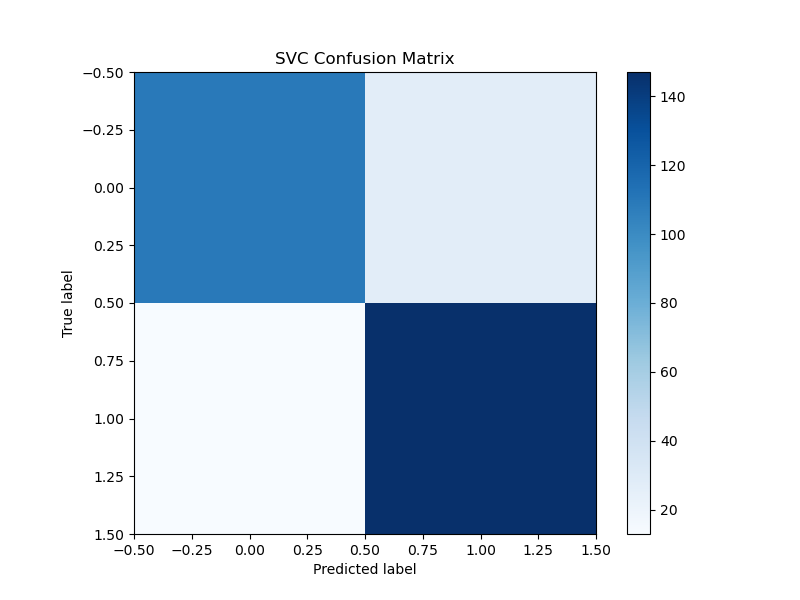
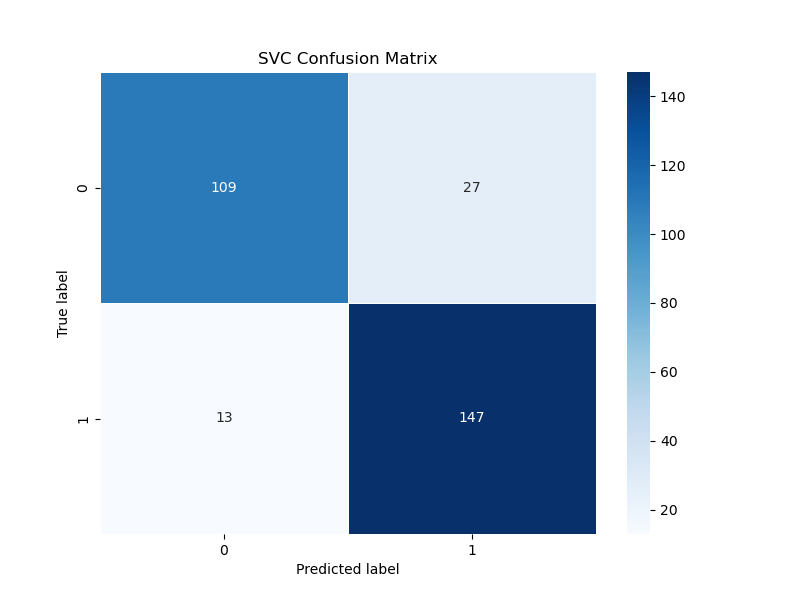
Adjusted

diff --git a/utils.py b/utils.py
@@ -3,10 +3,11 @@ import json
 import mlflow
 import numpy as np
 import pandas as pd
+import seaborn as sns
 import matplotlib.pyplot as plt
 from sklearn.metrics import accuracy_score, precision_score, recall_score, f1_score, roc_auc_score, confusion_matrix, \
     roc_curve, auc
-
+from mlflow.models import infer_signature
 
 def load_preprocessed_data():
     """
@@ -14,10 +15,9 @@ def load_preprocessed_data():
 
     :return: Tuple of features (X) and labels (y).
     """
-    X = pd.read_csv('Data/X_preprocessed.csv').values
+    X = pd.read_csv('Data/X_preprocessed.csv')
     y = pd.read_csv('Data/y_preprocessed.csv').values.ravel()
     return X, y
-
 
 def load_model_configs(config_file):
     """
@@ -29,7 +29,6 @@ def load_model_configs(config_file):
     with open(config_file, 'r') as file:
         model_configs = json.load(file)
     return model_configs
-
 
 def calculate_metrics(y_true, y_pred, y_pred_proba):
     """
@@ -49,8 +48,7 @@ def calculate_metrics(y_true, y_pred, y_pred_proba):
     }
     return metrics
 
-
-def log_to_mlflow(model, metrics, run_name="Model", params=None):
+def log_to_mlflow(model, metrics, run_name="Model", params=None, X_example=None):
     """
     Log model, metrics, and parameters to MLflow.
 
@@ -58,18 +56,20 @@ def log_to_mlflow(model, metrics, run_name="Model", params=None):
     :param metrics: Dictionary of calculated metrics.
     :param run_name: Name of the MLflow run.
     :param params: Dictionary of model parameters.
+    :param X_example: Example input data for generating model signature.
     """
     with mlflow.start_run(run_name=run_name):
         mlflow.log_metrics(metrics)
         if params:
             mlflow.log_params(params)
 
-        # Log the model
-        if hasattr(model, 'save'):
-            mlflow.keras.log_model(model, "model")
+        # Log the model with or without input example
+        if X_example is not None:
+            y_example = model.predict(X_example)
+            signature = infer_signature(X_example, y_example)
+            mlflow.keras.log_model(model, "model", signature=signature, input_example=X_example)
         else:
-            mlflow.sklearn.log_model(model, "model")
-
+            mlflow.keras.log_model(model, "model")
 
 def save_best_params_to_file(model_name, best_params):
     """
@@ -84,7 +84,6 @@ def save_best_params_to_file(model_name, best_params):
     with open(file_path, 'w') as file:
         json.dump(best_params, file)
     print(f"Best parameters of model {model_name} saved to {file_path}")
-
 
 def evaluate_and_save_results(model_name, y_true, y_pred, y_pred_proba):
     """
@@ -120,9 +119,8 @@ def evaluate_and_save_results(model_name, y_true, y_pred, y_pred_proba):
     # Save confusion matrix
     cm = confusion_matrix(y_true, y_pred)
     plt.figure(figsize=(8, 6))
-    plt.imshow(cm, interpolation='nearest', cmap=plt.cm.Blues)
+    sns.heatmap(cm, annot=True, fmt='d', cmap='Blues', cbar=True, linewidths=.5)
     plt.title(f'{model_name} Confusion Matrix')
-    plt.colorbar()
     plt.ylabel('True label')
     plt.xlabel('Predicted label')
     plt.savefig(os.path.join(results_dir, f'{model_name}_confusion_matrix.png'))

diff --git a/Tensorflow_training.py b/Tensorflow_training.py
@@ -7,6 +7,7 @@ from tensorflow.keras import Sequential
 from tensorflow.keras.layers import Dense, Dropout
 from tensorflow.keras.optimizers import Adam
 from collections import Counter
+import tempfile
 from utils import (
     evaluate_and_save_results,
     save_best_params_to_file,
@@ -68,8 +69,8 @@ def train_tensorflow_model(X, y):
     tuner = kt.RandomSearch(
         build_model,
         objective='val_loss',
-        max_trials=10,
-        executions_per_trial=3,
+        max_trials=5,
+        executions_per_trial=1,
         overwrite=True,
         directory='tuner_results',
         project_name='HeartAttack'
@@ -88,7 +89,7 @@ def train_tensorflow_model(X, y):
     all_y_pred = []
 
     for fold_no, (train_index, val_index) in enumerate(kfold.split(X, y), 1):
-        X_train, X_val = X[train_index], X[val_index]
+        X_train, X_val = X.iloc[train_index], X.iloc[val_index]
         y_train, y_val = y[train_index], y[val_index]
 
         early_stopping = tf.keras.callbacks.EarlyStopping(monitor='val_loss', patience=10, restore_best_weights=True)
@@ -115,6 +116,22 @@ def train_tensorflow_model(X, y):
     common_params = most_common_params([trial.hyperparameters.values for trial in best_trials])
     log_to_mlflow(best_model, metrics, run_name="Neural_Network_model", params=common_params)
 
+    # Save the best model in .keras format, without including optimizer
+    model_save_dir = 'Models/SavedModels'
+    if not os.path.exists(model_save_dir):
+        os.makedirs(model_save_dir)
+        print(f"Directory {model_save_dir} created.")
+    else:
+        print(f"Directory {model_save_dir} already exists.")
+
+    model_save_path = os.path.join(model_save_dir, 'NeuralNetwork_best_model.keras')
+    best_model.save(model_save_path, include_optimizer=False)
+    print(f"Model saved to {model_save_path}")
+
+    # Ensure the directory exists before saving input example
+    temp_dir = tempfile.mkdtemp()
+    mlflow.keras.log_model(best_model, artifact_path=os.path.join(temp_dir, "NeuralNetwork_best_model"))
+
     return best_model, common_params
 
 def main():
@@ -130,19 +147,6 @@ def main():
     evaluate_and_save_results('NeuralNetwork', y, y_pred, y_pred_proba)
 
     save_best_params_to_file('NeuralNetwork', best_params)
-
-    # Ensure the directory exists before saving the model
-    model_save_dir = 'Models/SavedModels'
-    if not os.path.exists(model_save_dir):
-        os.makedirs(model_save_dir)
-        print(f"Directory {model_save_dir} created.")
-    else:
-        print(f"Directory {model_save_dir} already exists.")
-
-    # Save the best model in .keras format
-    model_save_path = os.path.join(model_save_dir, 'NeuralNetwork_best_model.keras')
-    best_model.save(model_save_path)
-    print(f"Model saved to {model_save_path}")
 
 if __name__ == "__main__":
     main()

diff --git a/DataPreprocess.py b/DataPreprocess.py
@@ -142,13 +142,15 @@ def preprocess_data(df, output_dir="Data"):
 
     # Standardize the features
     scaler = StandardScaler()
-    X = scaler.fit_transform(X)
+    X_scaled = scaler.fit_transform(X)
     y = y.to_numpy()
 
-    # Save preprocessed data
+    # Save preprocessed data with column names for X
     X_file_path = os.path.join(output_dir, 'X_preprocessed.csv')
     y_file_path = os.path.join(output_dir, 'y_preprocessed.csv')
-    pd.DataFrame(X).to_csv(X_file_path, index=False)
+
+    # Here, we use the original column names
+    pd.DataFrame(X_scaled, columns=X.columns).to_csv(X_file_path, index=False)
     pd.DataFrame(y, columns=['HeartAttackRisk']).to_csv(y_file_path, index=False)
 
     print(f"Preprocessing complete. Preprocessed data saved to {X_file_path} and {y_file_path}\n")

diff --git a/main.py b/main.py
@@ -6,6 +6,6 @@ from Sklearn_evaluation import main as evaluate_models
 from Tensorflow_training import main as train_and_evaluate_tensorflow
 
 if __name__ == "__main__":
-    preprocess_data('Data/DataRaw.csv')
-    evaluate_models()
+    # preprocess_data('Data/DataRaw.csv')
+    # evaluate_models()
     train_and_evaluate_tensorflow()
